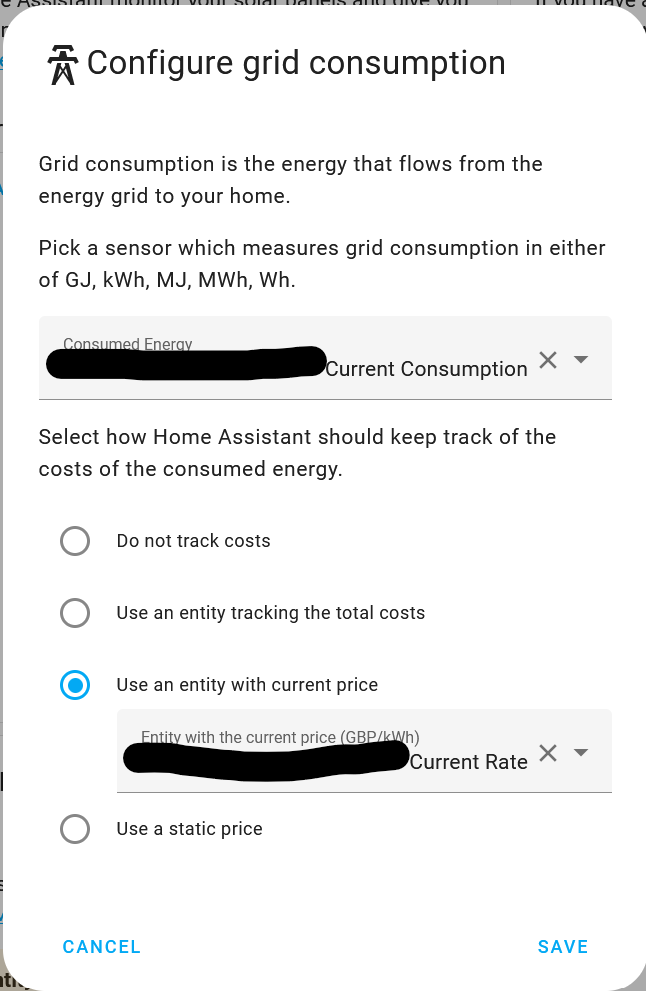
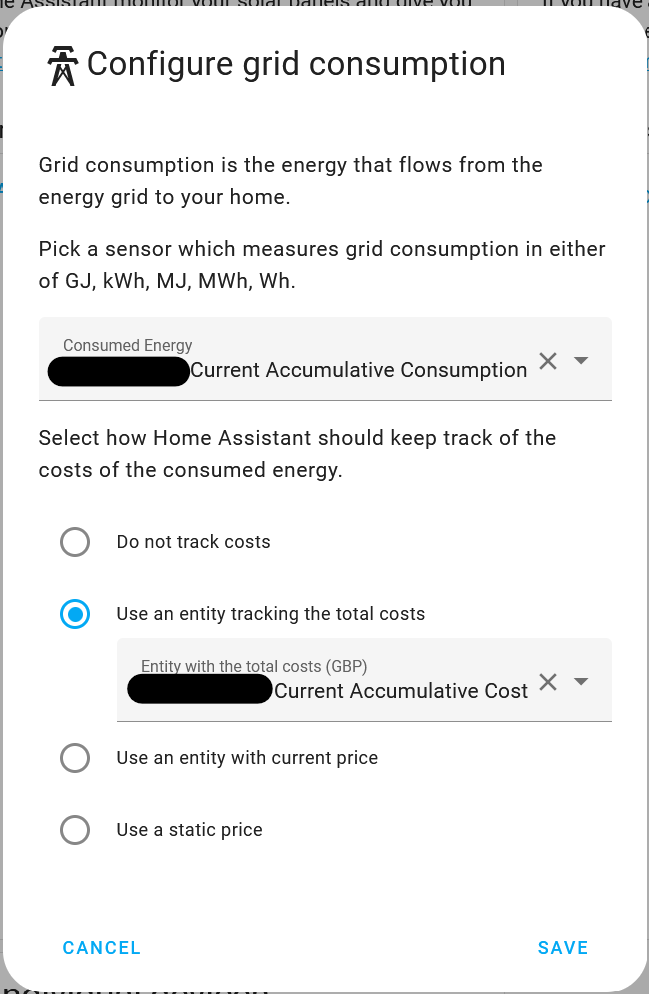
docs: Updated energy dashboard instructions to use current accumulative consumption sensors

diff --git a/_docs/energy_dashboard.md b/_docs/energy_dashboard.md
@@ -18,8 +18,8 @@ This is only available if you have an Octopus Home Mini and a smart electricity 
 
 1. Go to your [energy dashboard configuration](https://my.home-assistant.io/redirect/config_energy/)
 2. Click `Add Consumption` under `Electricity Grid`
-3. For `consumed energy` you want `sensor.octopus_energy_electricity_{{METER_SERIAL_NUMBER}}_{{MPAN_NUMBER}}_current_consumption`
-4. For `Use an entity with current price` option you want `sensor.octopus_energy_electricity_{{METER_SERIAL_NUMBER}}_{{MPAN_NUMBER}}_current_rate`
+3. For `consumed energy` you want `sensor.octopus_energy_electricity_{{METER_SERIAL_NUMBER}}_{{MPAN_NUMBER}}_current_consumption` or `sensor.octopus_energy_electricity_{{METER_SERIAL_NUMBER}}_{{MPAN_NUMBER}}_current_accumulative_consumption`
+4. For `Use an entity tracking the total costs` option you want `sensor.octopus_energy_electricity_{{METER_SERIAL_NUMBER}}_{{MPAN_NUMBER}}_current_accumulative_cost`
 
 > Please note that data will only appear in the energy dashboard from the point you configure the Home Mini within the integration. It doesn't backport any data.
 
@@ -31,8 +31,8 @@ This is only available if you have an Octopus Home Mini and a smart gas meter.
 
 1. Go to your [energy dashboard configuration](https://my.home-assistant.io/redirect/config_energy/)
 2. Click `Add Gas Source` under `Gas Consumption`
-3. For `consumed energy` you want `sensor.octopus_energy_gas_{{METER_SERIAL_NUMBER}}_{{MPRN_NUMBER}}_current_consumption`
-4. For `Use an entity with current price` option you want `sensor.octopus_energy_gas_{{METER_SERIAL_NUMBER}}_{{MPRN_NUMBER}}_current_rate` 
+3. For `consumed energy` you want `sensor.octopus_energy_gas_{{METER_SERIAL_NUMBER}}_{{MPRN_NUMBER}}_current_consumption` or `sensor.octopus_energy_gas_{{METER_SERIAL_NUMBER}}_{{MPRN_NUMBER}}_current_accumulative_consumption`
+4. For `Use an entity tracking the total costs` option you want `sensor.octopus_energy_gas_{{METER_SERIAL_NUMBER}}_{{MPRN_NUMBER}}_current_accumulative_cost` 
 
 > Please note that data will only appear in the energy dashboard from the point you configure the Home Mini within the integration. It doesn't backport any data.
 
